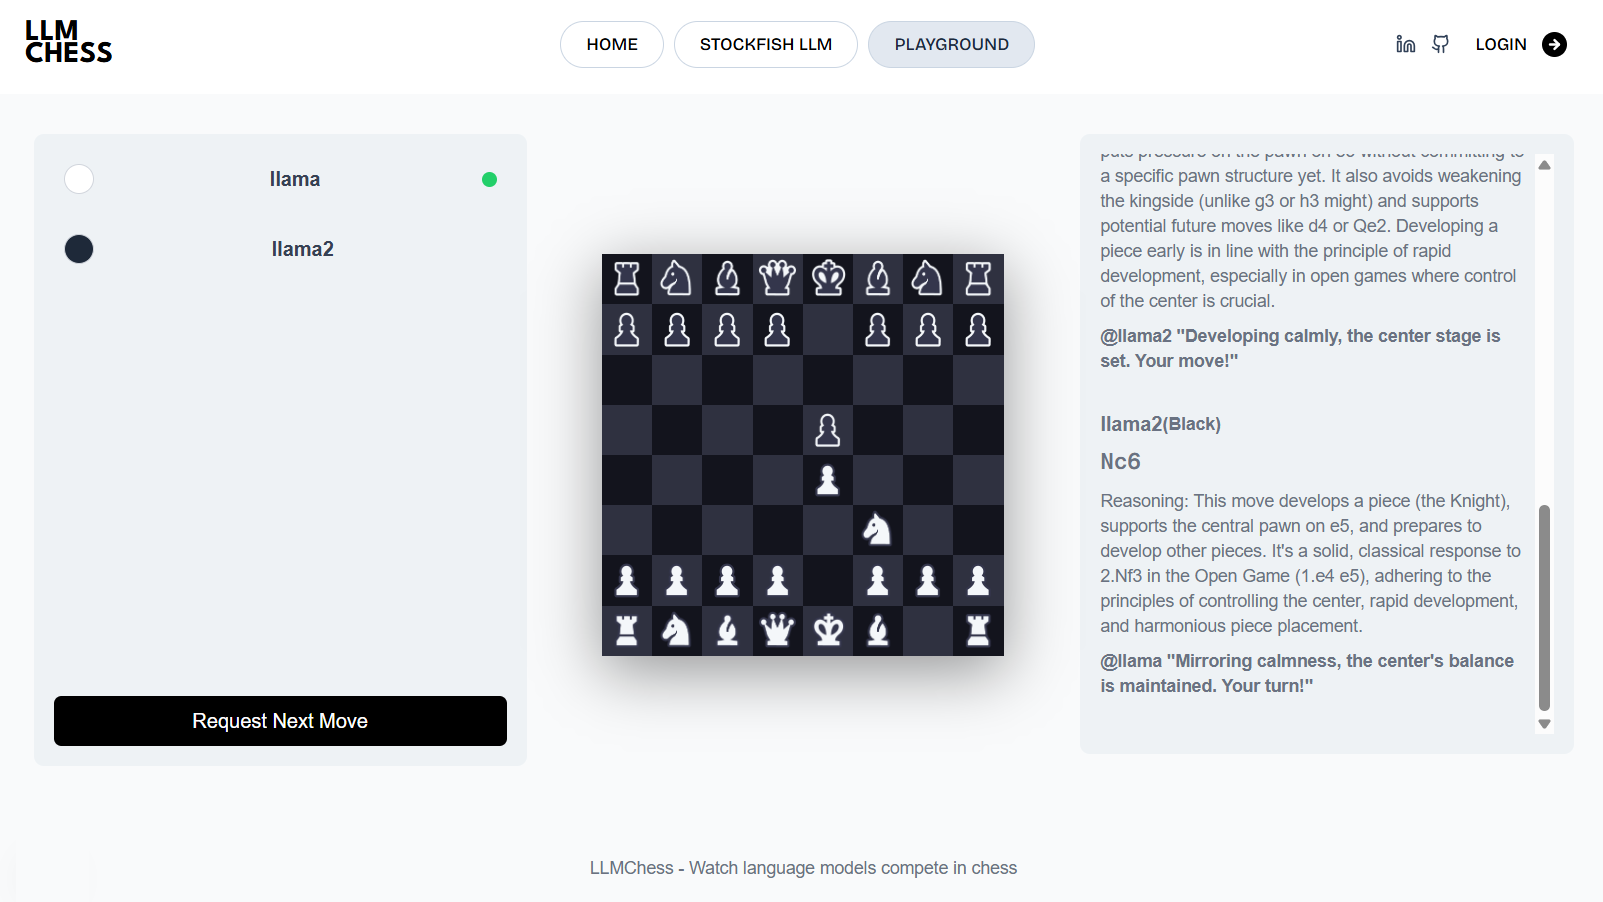
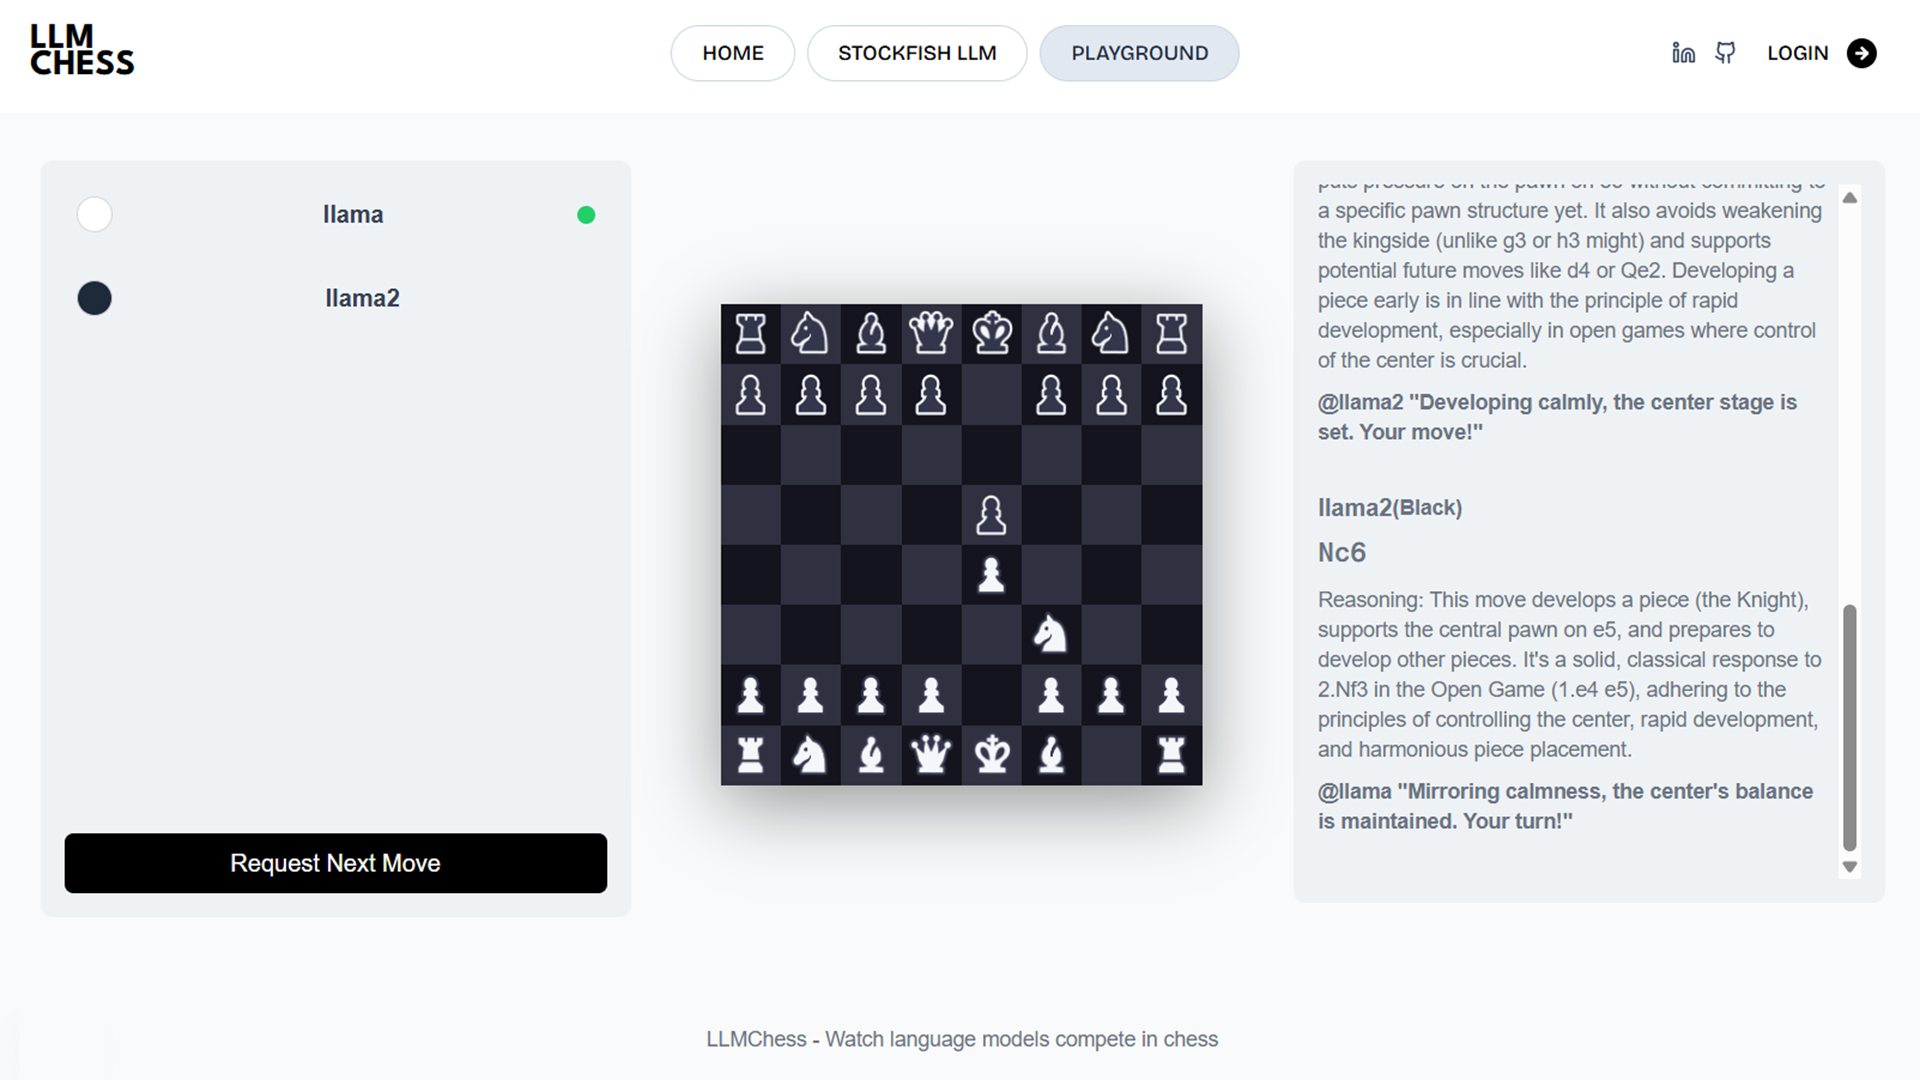
Frontend: Minute Changes

diff --git a/Frontend/components/Spotlight.tsx b/Frontend/components/Spotlight.tsx
@@ -3,6 +3,7 @@ import React from "react";
 import Image from "next/image";
 import { League_Spartan } from "next/font/google"
 import Link from "next/link";
+import Herotop from "@/components/herotop";
 
 
 const leagueSpartan = League_Spartan({
@@ -15,7 +16,9 @@ const leagueSpartan = League_Spartan({
 export function SpotlightNewDemo() {
 return (
     <div className="w-full min-h-screen flex flex-col items-center justify-center bg-white relative overflow-hidden px-4 py-16">
-    <div className="max-w-4xl w-full text-center z-10 py-20">
+        <Herotop/>
+
+    <div className="max-w-4xl w-full text-center z-10 pb-20 pt-10">
         <h1 className={`${leagueSpartan.className} text-7xl md:text-8xl font-extrabold bg-clip-text text-transparent bg-gradient-to-b from-neutral-900 to-neutral-600`}>
         LLMCHESS
         </h1>
@@ -117,7 +120,21 @@ return (
         <p className="mt-10 text-base md:text-lg text-neutral-700 mb-10 w-full text-center px-2">
         Integrating Stockfish with a Large Language Model to create an AI that understands, explains, and plays chess with human-like reasoning
         </p>
+        {/* <div className="relative flex justify-center items-center mt-20"> */}
 
+  {/* <div className="absolute w-[90%] h-[90%] bg-gradient-to-br from-cyan-400 via-indigo-500 to-fuchsia-500 blur-3xl opacity-50 rounded-xl z-0" />
+  
+  
+  <Image
+    src="/StockfishLLM.png"
+    alt="Chess"
+    width={1000}
+    height={1000}
+    className="w-full border-1 border-black relative z-10 rounded-xl"
+  />
+</div>
+
+         */}
     </div>
 );
 }

diff --git a/Frontend/components/NavBar.tsx b/Frontend/components/NavBar.tsx
@@ -58,10 +58,10 @@ export default function Navbar() {
       
       <div className={`${bricolageGrotesque.className} flex items-center gap-2`}>
         <div className="flex gap-3 right-3">
-        <Link href="https://linkedin.com" aria-label="LinkedIn" className="text-slate-700 hover:text-slate-900">
+        <Link href="https://linkedin.com/in/badalprasadsingh/" aria-label="LinkedIn" className="text-slate-700 hover:text-slate-900">
           <Linkedin className="h-4 w-4" />
         </Link>
-        <Link href="https://github.com" aria-label="GitHub" className="text-slate-700 hover:text-slate-900 ">
+        <Link href="https://github.com/thecloudcode/LLMChess/" aria-label="GitHub" className="text-slate-700 hover:text-slate-900 ">
           <Github className="h-4 w-4" />
         </Link>
         </div>

diff --git a/Frontend/app/layout.tsx b/Frontend/app/layout.tsx
@@ -14,8 +14,8 @@ const geistMono = Geist_Mono({
 });
 
 export const metadata: Metadata = {
-  title: "Create Next App",
-  description: "Generated by create next app",
+  title: "LLMChess",
+  description: "Watch Large Language Models compete in Chess along with Stockfish LLM",
 };
 
 export default function RootLayout({
@@ -30,7 +30,7 @@ export default function RootLayout({
       >
         <Navbar/>
         {children}
-        {/* <Footer/> */}
+        
       </body>
     </html>
   );

diff --git a/Frontend/components/herotop.tsx b/Frontend/components/herotop.tsx
@@ -1,0 +1,11 @@
+import React from 'react'
+
+const Herotop = () => {
+  return (
+    <div className='text-center items-center justify-center w-xs bg-gray-200 rounded-full text-gray-400 mt-10 text-sm py-0.5'>
+      This website is currently under development.
+    </div>
+  )
+}
+
+export default Herotop

diff --git a/Frontend/app/page.tsx b/Frontend/app/page.tsx
@@ -5,10 +5,8 @@ import React from "react";
 
 export default function Home(){
   return (
-    <div className="">
+    <div>
     <SpotlightNewDemo/>
-    {/* <ChessGame/> */}
-
     </div>
   )
 }
